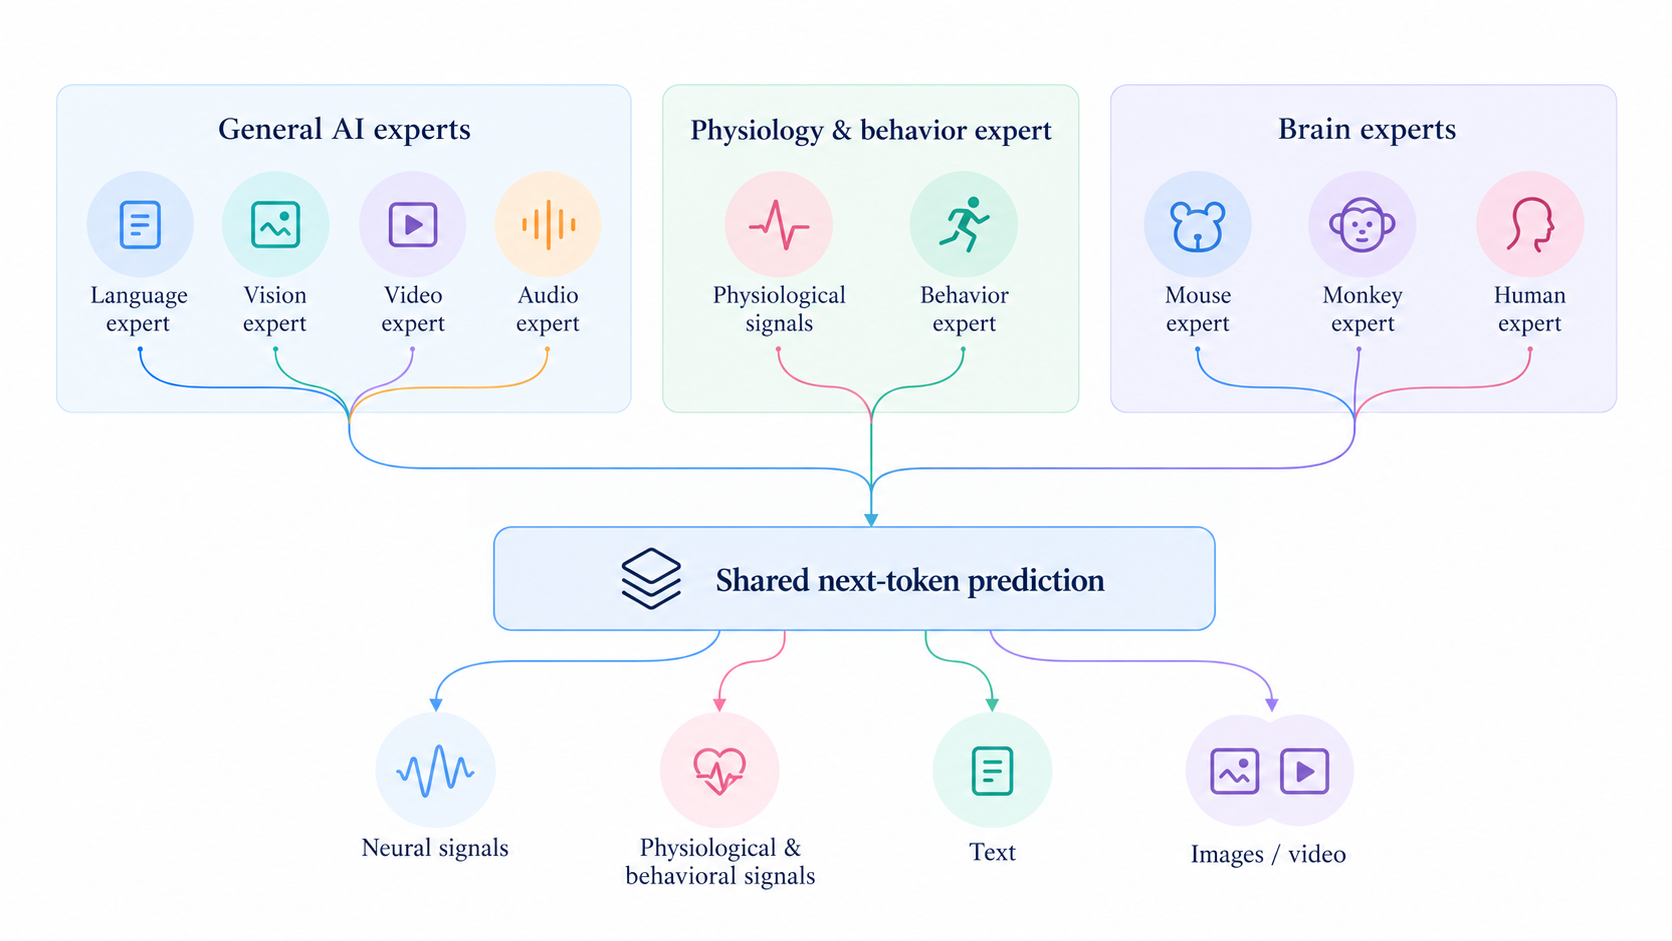
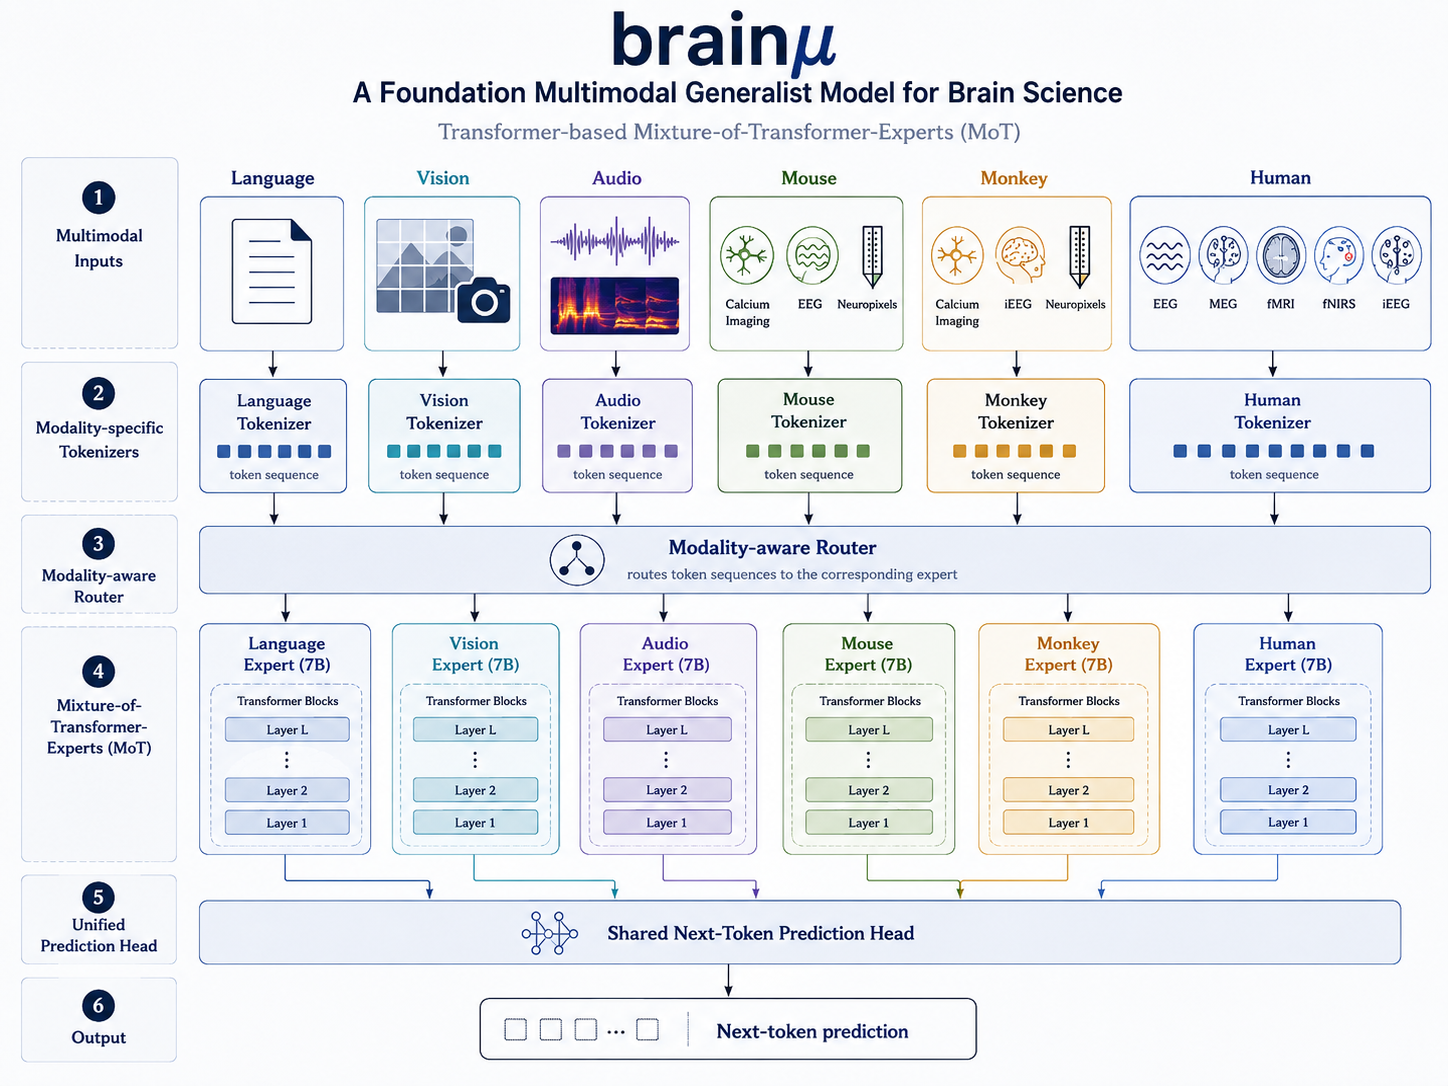
Update model architecture diagram

diff --git a/index.html b/index.html
@@ -80,7 +80,7 @@
           <figure class="media-figure">
             <!-- EDIT: replace this file, or update src to your PNG / SVG / JPG. -->
             <a class="architecture-frame" href="assets/model_arch.png" target="_blank" rel="noopener noreferrer" aria-label="View the Brainμ architecture diagram at full size">
-              <img src="assets/model_arch.png" alt="Brainμ architecture: general AI experts, physiology and behavior experts, and brain experts connect through shared next-token prediction to neural signals, physiological and behavioral signals, text, and images or video." width="1672" height="941" loading="lazy" />
+              <img src="assets/model_arch.png" alt="Brainμ architecture: multimodal inputs for language, vision, audio, mouse, monkey, and human data pass through modality-specific tokenizers and a modality-aware router to Transformer experts, a shared next-token prediction head, and the model output." width="1448" height="1086" loading="lazy" />
             </a>
           </figure>
         </section>
